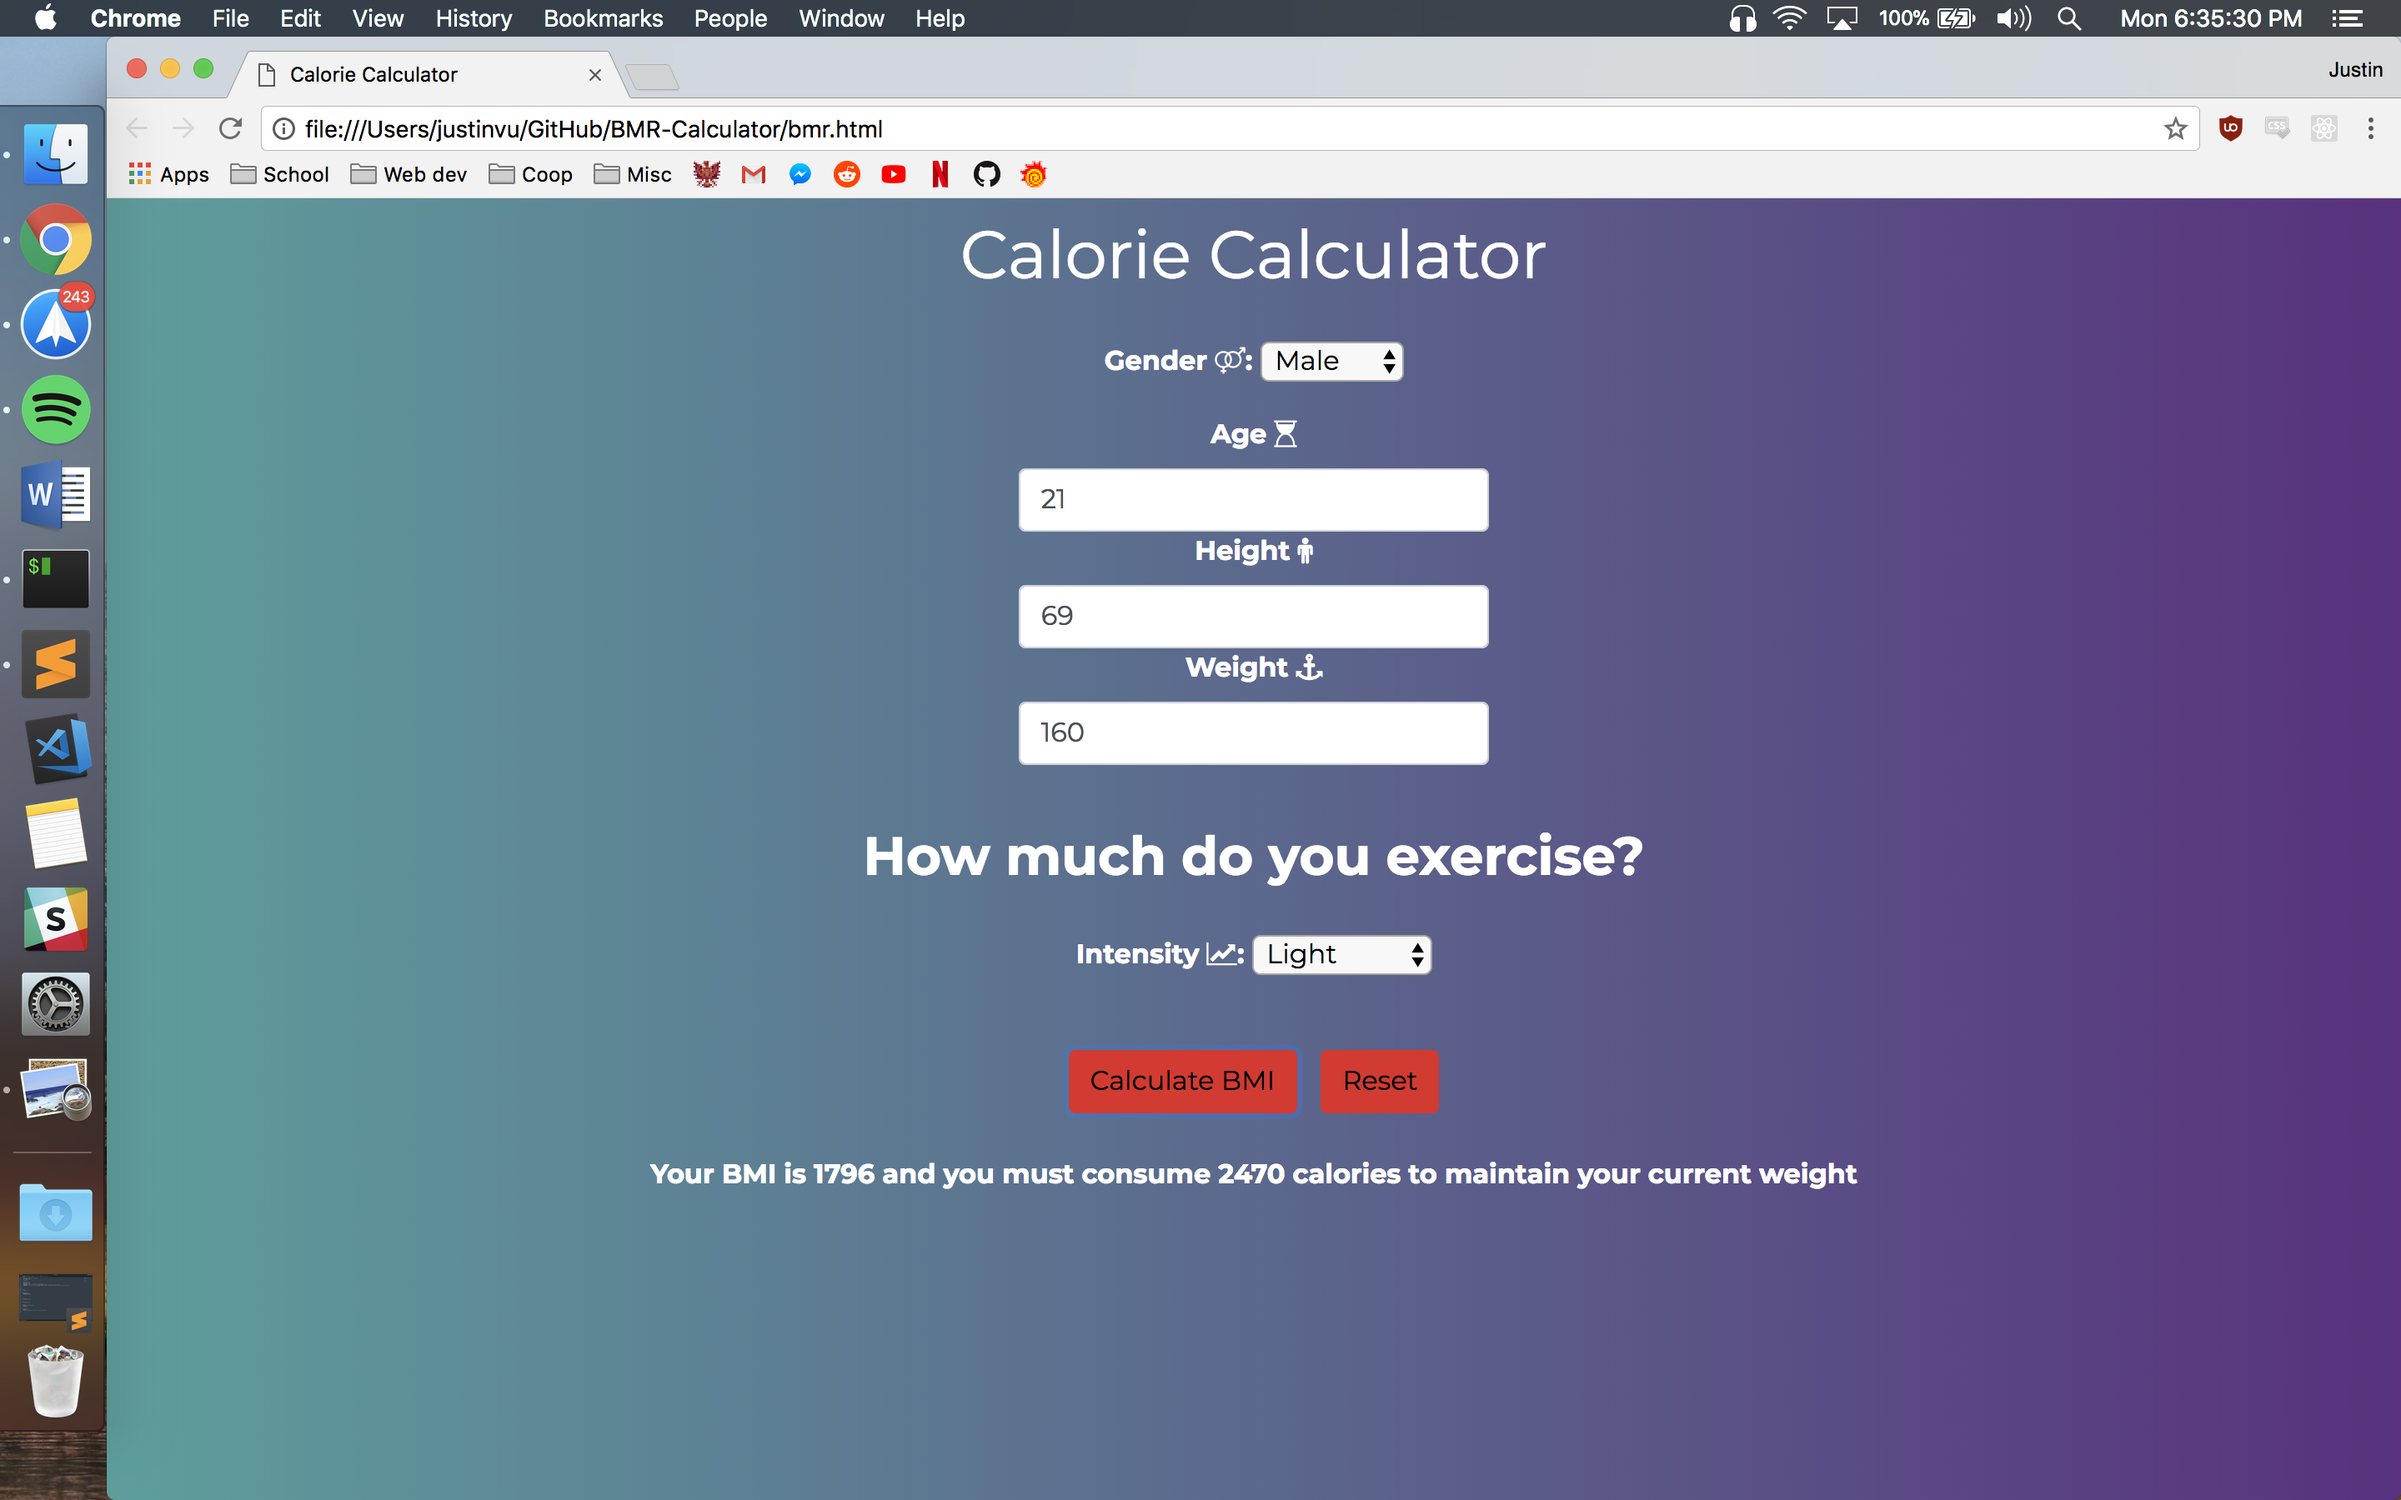
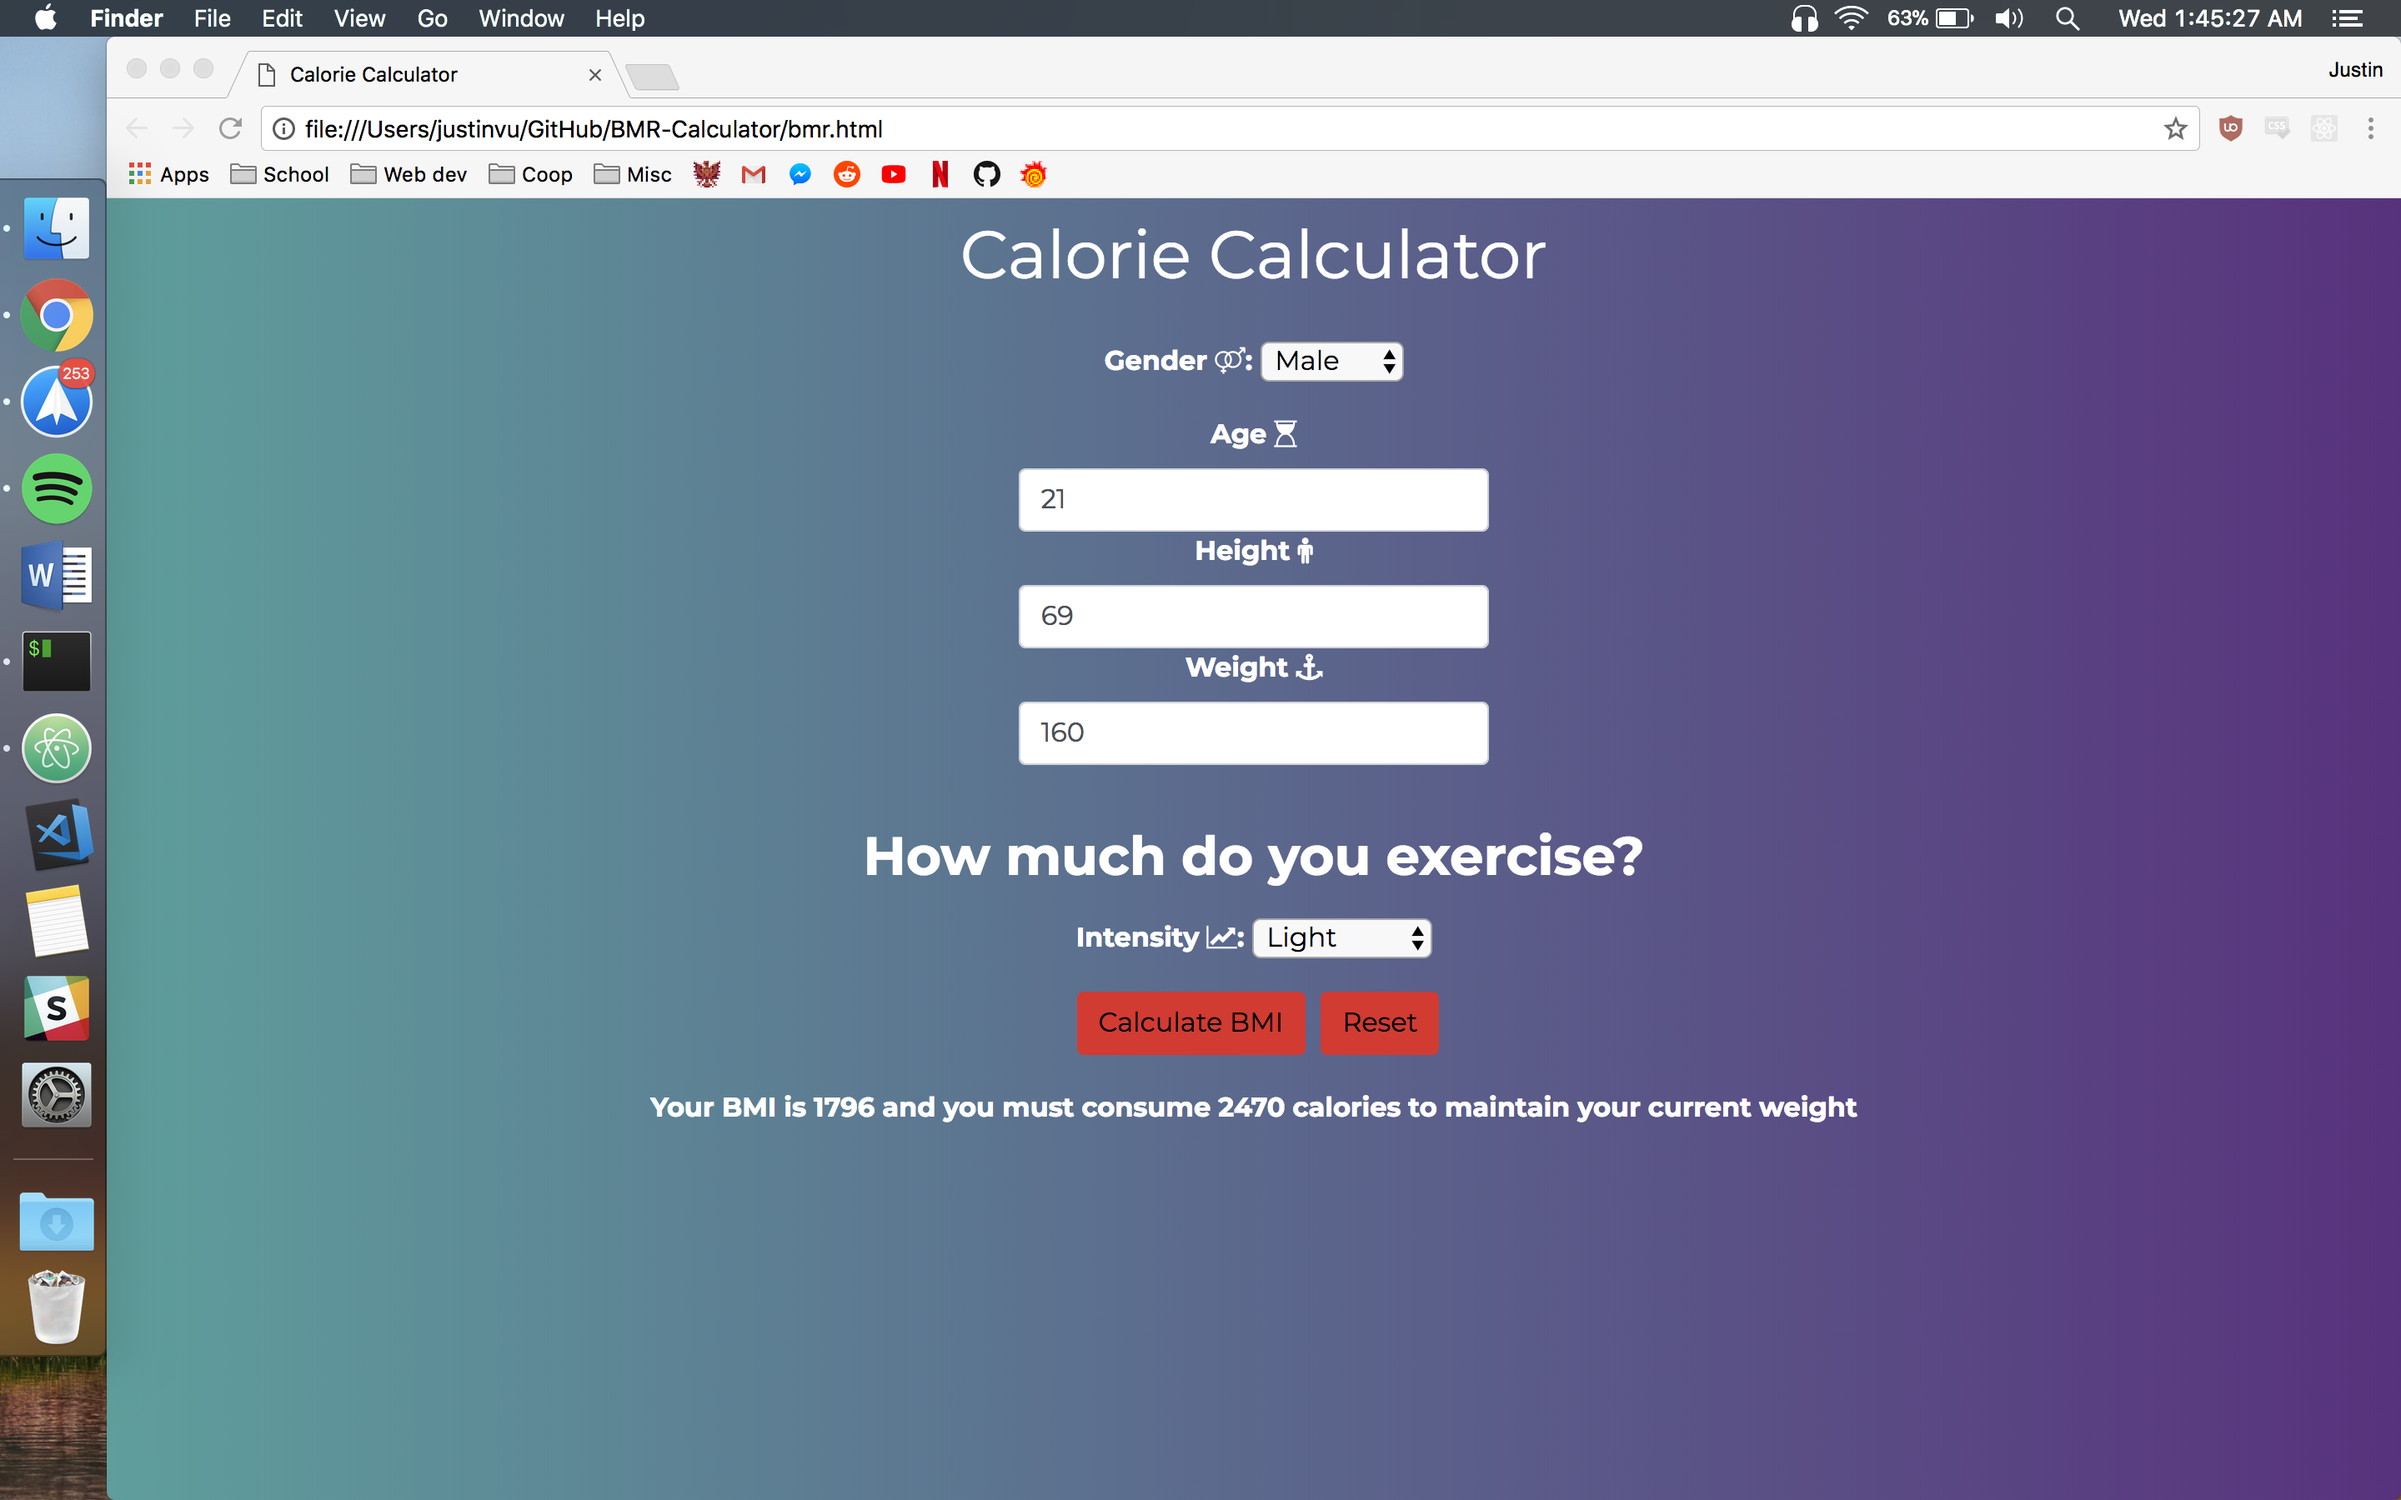
adjusted styling

Changed region(s): [[0.0, 0.0, 1.0, 0.9644], [0.2812, 0.5911, 0.7812, 0.7467], [0.2812, 0.7778, 0.7812, 0.8089]]

diff --git a/bmr.js b/bmr.js
@@ -40,7 +40,7 @@ function calories(bmr,level){
 }
 
 calculate.addEventListener("click", function(){
-	
+
 	age = document.querySelector('input[name="age"]').value;
 	height = document.querySelector('input[name="height"]').value;
 	weight = document.querySelector('input[name="weight"]').value;
@@ -48,19 +48,19 @@ calculate.addEventListener("click", function(){
 	console.log
 	gender = document.querySelector('select[name="gender"]').value;
 	console.log(gender);
-	
+
 	if (gender==0){
 		var bmr = Math.round(bmrMen(weight,height,age));
 		var activity = Math.round(calories(bmr,activityLevel));
 		daily.textContent = "Your BMI is " + bmr + " and you must consume " + activity + " calories to maintain your current weight"
 
-		
+
 	}
 
 	else if (gender==1){
 		var bmr = Math.round(bmrWomen(weight,height,age));
 		var activity = Math.round(calories(bmr,activityLevel));
-		
+
 		if (height<64){
 			daily.textContent = "Your BMI is " + bmr + " and you must consume " + activity + " calories to maintain your current weight" + " and ur a pokemon fam lmao"
 
@@ -70,7 +70,7 @@ calculate.addEventListener("click", function(){
 			daily.textContent = "Your BMI is " + bmr + " and you must consume " + activity + " calories to maintain your current weight"
 
 		}
-		
+
 
 	}
 }
@@ -86,4 +86,3 @@ reset.addEventListener("click", function(){
 
 
 });
-

diff --git a/bmr.html b/bmr.html
@@ -3,7 +3,7 @@
 	<link href="https://fonts.googleapis.com/css?family=Montserrat:300,400,700" rel="stylesheet">
 
 
-	
+
 	<link rel="stylesheet" type="text/css" href="https://maxcdn.bootstrapcdn.com/bootstrap/4.0.0/css/bootstrap.min.css">
 	<link rel="stylesheet" type="text/css" href="">
 	<link rel="stylesheet" type="text/css" href="https://cdnjs.cloudflare.com/ajax/libs/popper.js/1.12.9/umd/popper.min.js">
@@ -28,11 +28,11 @@
 	  </div>
 	</div>
 
-	
 
-	
+
+
 	<h2>How much do you exercise?</h2>
-	<div class="measurements">
+	<div class="bottom">
 		Intensity <i class="fa fa-line-chart" aria-hidden="true"></i>:
 		<select name="level">
 			<option value="0">Light</option>
@@ -42,13 +42,13 @@
 		</select>
 	</div>
 
-	
+
 	<div class="measurements">
 		<button type="button" class="divider btn" id="calculate">Calculate BMI</button>
 		<button type="button" class="divider btn" id="reset">Reset</button>
 	</div>
 
-	
+
 
 	<div>
 		<span id="daily"></span>

diff --git a/bmr.css b/bmr.css
@@ -1,9 +1,7 @@
 body {
 	font-family: 'Montserrat', sans-serif;
 	font-weight: 700;
-
 	color:white;
-
 	text-align: center;
 	margin-top: 10px;
 	background: #5f2c82;  /* fallback for old browsers */
@@ -23,6 +21,9 @@ label {
 
 }
 
+.bottom {
+	padding-top: 10px;
+}
 
 h1 {
 	padding-bottom: 20px;
@@ -34,11 +35,10 @@ h2 {
 
 button {
 	background:rgb(226, 38, 38);
-	margin: 5px;
+	margin-left: 5px;
 }
 
 .center_div{
     margin: 0 auto;
     width:20% /* value of your choice which suits your alignment */
 }
-
